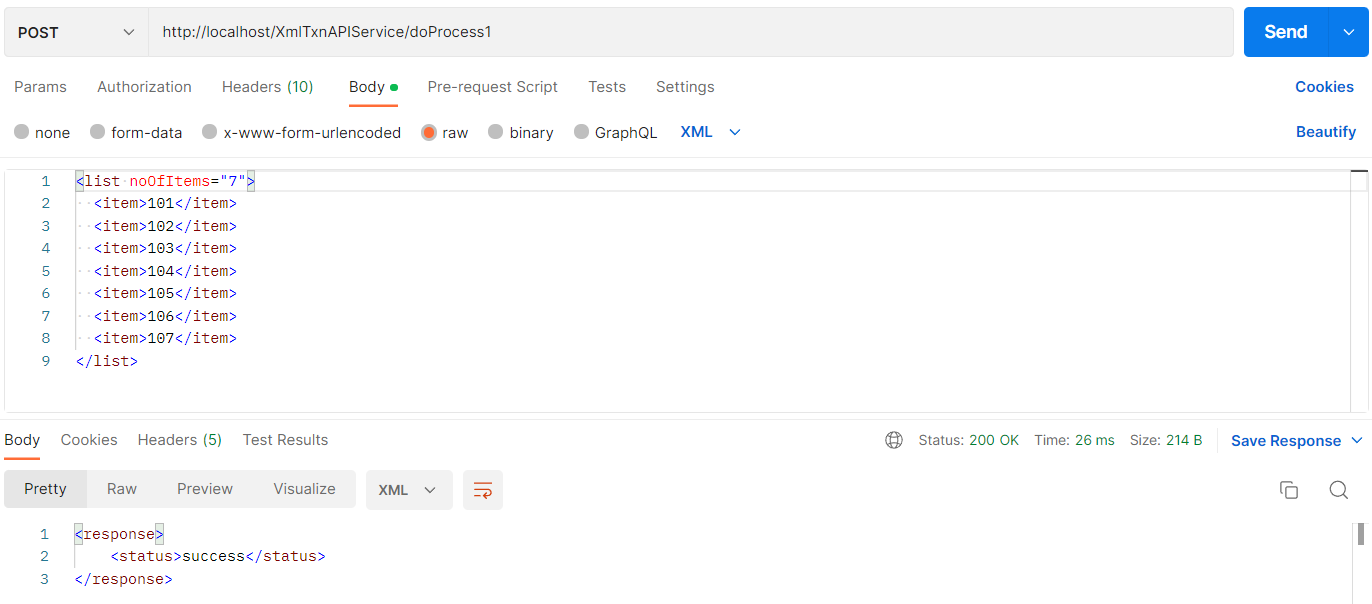
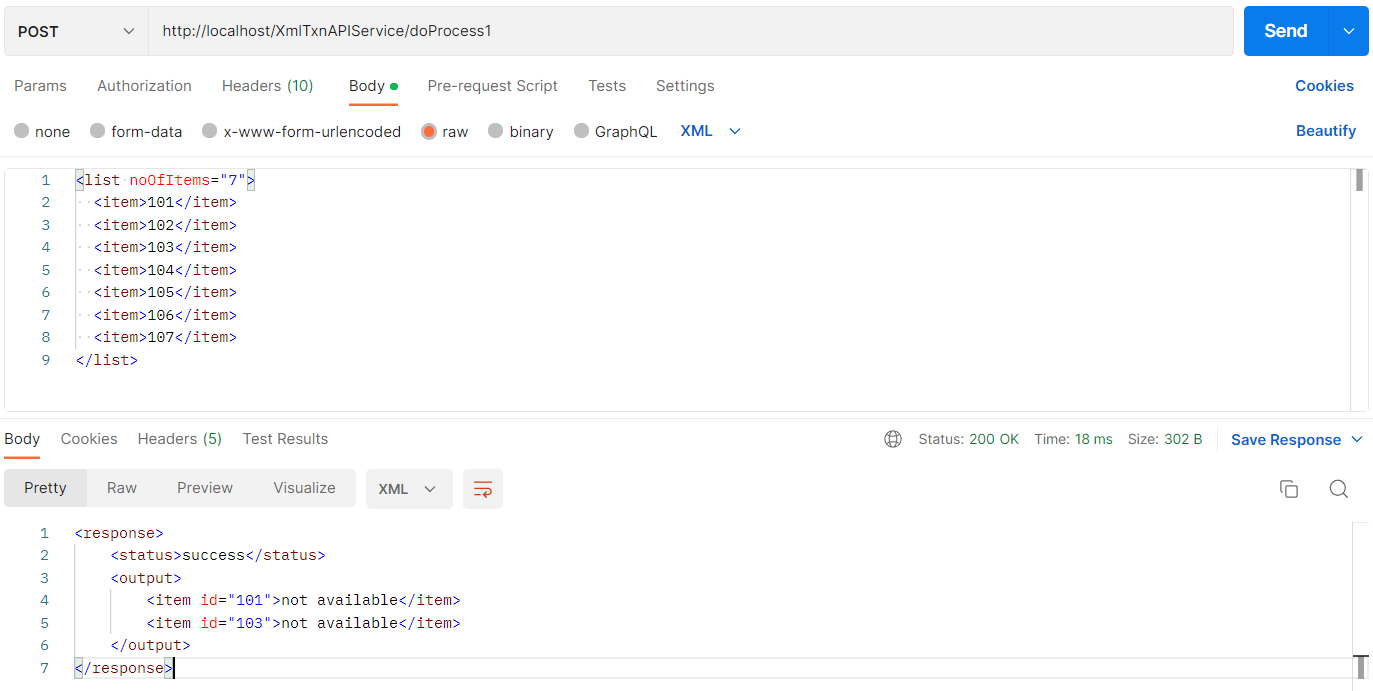
minor improvements to implementation

diff --git a/src/main/java/com/example/xml/rest/controller/XMLTxnController.java b/src/main/java/com/example/xml/rest/controller/XMLTxnController.java
@@ -41,7 +41,10 @@ public class XMLTxnController {
 			Document inpXmlDocument = xsValidator.getXmlDocument(inpXmlStr, xmlTxnAPIErrorHandler);
 			Map<String, List> xmlParseAndValidationMessages = xsValidator.validate(inpXmlDocument, 
 					                                                   xsdFile, xmlTxnAPIErrorHandler);
-			resultXmlStr = constructResultXmlStr(xmlParseAndValidationMessages, inpXmlDocument);
+			// do any calculations on the XML input data, which can be appended to result
+			String txnEvalResult = "<output><item id=\"101\">not available</item><item id=\"103\">"
+					                          + "not available</item></output>";
+			resultXmlStr = constructResultXmlStr(xmlParseAndValidationMessages, txnEvalResult);
 		} catch (Exception ex) {
 			resultXmlStr = "<response><status>failure</status><errorMessages><mesg>" + ex.getMessage() + "</mesg>"
 	                                      + "</errorMessages></response>";
@@ -63,7 +66,9 @@ public class XMLTxnController {
 			Document inpXmlDocument = xsValidator.getXmlDocument(inpXmlStr, xmlTxnAPIErrorHandler);
 			Map<String, List> xmlParseAndValidationMessages = xsValidator.validate(inpXmlDocument, 
 					                                                  xsdFile, xmlTxnAPIErrorHandler);
-			resultXmlStr = constructResultXmlStr(xmlParseAndValidationMessages, inpXmlDocument);
+			// do any calculations on the XML input data, which can be appended to result
+			String txnEvalResult = "";
+			resultXmlStr = constructResultXmlStr(xmlParseAndValidationMessages, txnEvalResult);
 		} catch (Exception ex) {
 			resultXmlStr = "<response><status>failure</status><errorMessages><mesg>" + ex.getMessage() + "</mesg>"
 					                   + "</errorMessages></response>";
@@ -72,8 +77,9 @@ public class XMLTxnController {
 		return resultXmlStr;
 	}
 
+	// a common XML result serializer, for all the apis defined within this controller
 	private String constructResultXmlStr(Map<String, List> xmlParseAndValidationMessages,
-			                                     Document inpXmlDocument) {
+			                                     String txnEvalResult) {
 		String resultXmlStr = "";
 		String warningXmlFrag = "";
 		
@@ -88,9 +94,9 @@ public class XMLTxnController {
 
 		if ((xmlParseAndValidationMessages.get("errors")).size() == 0) {
 			if (warningXmlFrag.length() > 0) {
-				resultXmlStr = "<response><status>success</status>" + warningXmlFrag;
+				resultXmlStr = "<response><status>success</status>" + warningXmlFrag + txnEvalResult;
 			} else {
-				resultXmlStr = "<response><status>success</status>";
+				resultXmlStr = "<response><status>success</status>" + txnEvalResult;
 			}
 		} else {
 			List<String> errorList = xmlParseAndValidationMessages.get("errors");
